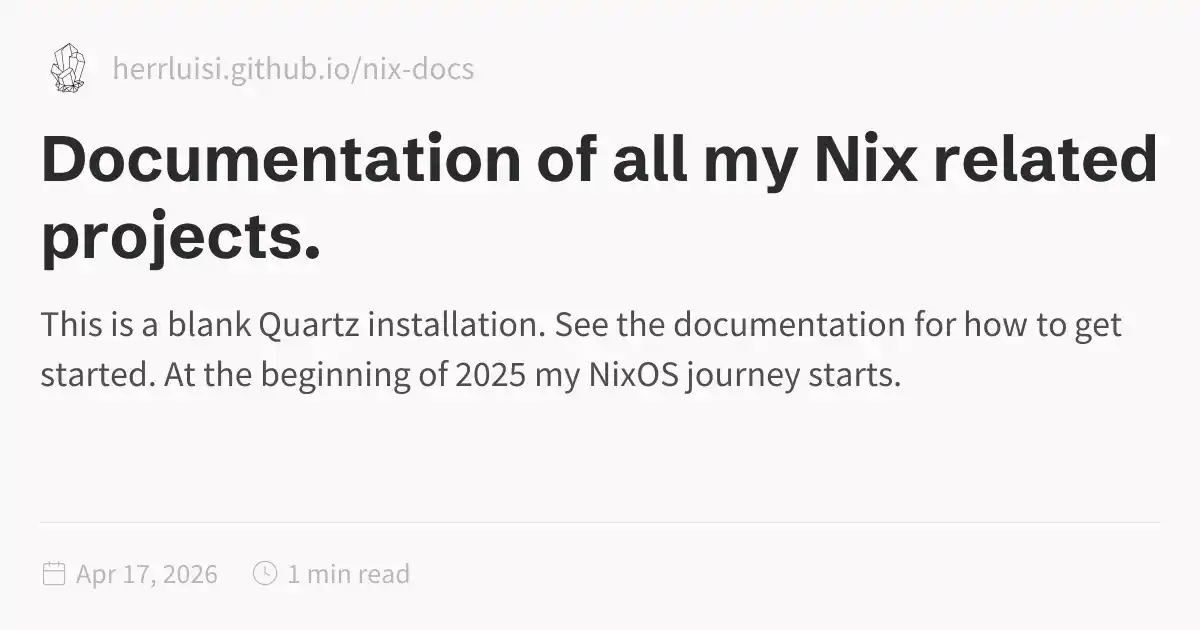
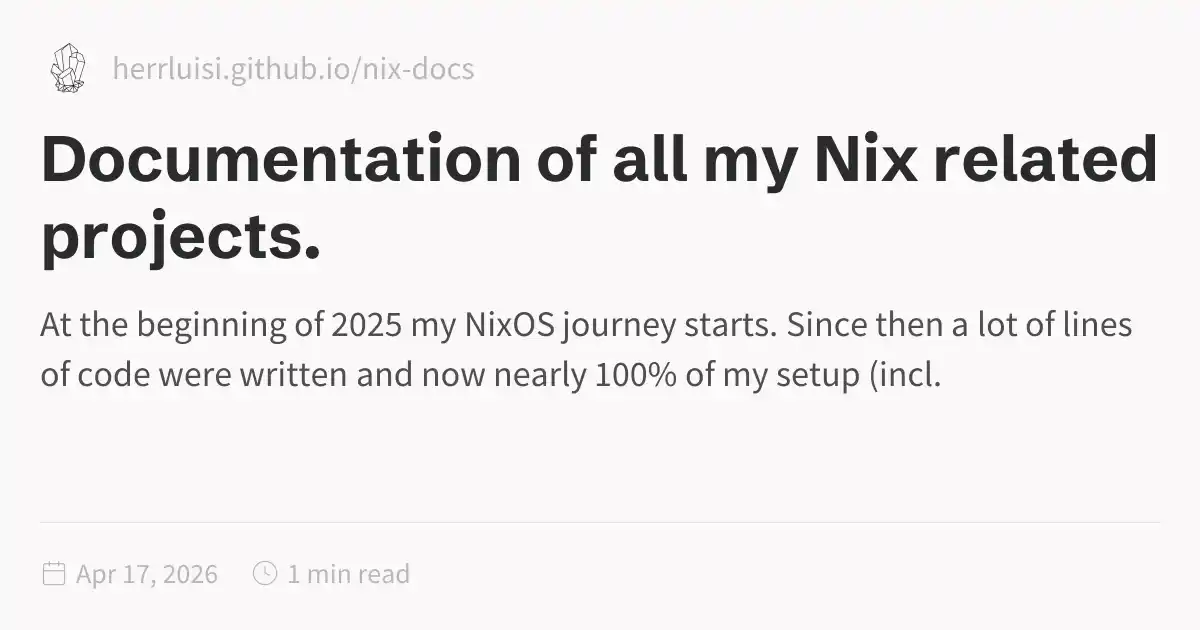
chore: removes Quartz lines from README

Changed region(s): [[0.0308, 0.4825, 0.9558, 0.5429], [0.0308, 0.573, 0.8017, 0.6333]]

diff --git a/public/index.html b/public/index.html
@@ -1,5 +1,5 @@
 <!DOCTYPE html>
-<html lang="en" dir="ltr"><head><title>Documentation of all my Nix related projects.</title><meta charset="utf-8"/><link rel="preconnect" href="https://fonts.googleapis.com"/><link rel="preconnect" href="https://fonts.gstatic.com"/><link rel="stylesheet" href="https://fonts.googleapis.com/css2?family=Schibsted Grotesk:wght@400;700&amp;family=Source Sans Pro:ital,wght@0,400;0,600;1,400;1,600&amp;family=IBM Plex Mono:wght@400;600&amp;display=swap"/><link rel="preconnect" href="https://cdnjs.cloudflare.com" crossorigin="anonymous"/><meta name="viewport" content="width=device-width, initial-scale=1.0"/><meta name="og:site_name" content="Quartz 4"/><meta property="og:title" content="Documentation of all my Nix related projects."/><meta property="og:type" content="website"/><meta name="twitter:card" content="summary_large_image"/><meta name="twitter:title" content="Documentation of all my Nix related projects."/><meta name="twitter:description" content="This is a blank Quartz installation. See the documentation for how to get started. At the beginning of 2025 my NixOS journey starts."/><meta property="og:description" content="This is a blank Quartz installation. See the documentation for how to get started. At the beginning of 2025 my NixOS journey starts."/><meta property="og:image:alt" content="This is a blank Quartz installation. See the documentation for how to get started. At the beginning of 2025 my NixOS journey starts."/><meta property="twitter:domain" content="herrluisi.github.io/nix-docs"/><meta property="og:url" content="https://herrluisi.github.io/nix-docs/index"/><meta property="twitter:url" content="https://herrluisi.github.io/nix-docs/index"/><link rel="icon" href="./static/icon.png"/><meta name="description" content="This is a blank Quartz installation. See the documentation for how to get started. At the beginning of 2025 my NixOS journey starts."/><meta name="generator" content="Quartz"/><link href="./index.css" rel="stylesheet" type="text/css" data-persist="true"/><style>.expand-button {
+<html lang="en" dir="ltr"><head><title>Documentation of all my Nix related projects.</title><meta charset="utf-8"/><link rel="preconnect" href="https://fonts.googleapis.com"/><link rel="preconnect" href="https://fonts.gstatic.com"/><link rel="stylesheet" href="https://fonts.googleapis.com/css2?family=Schibsted Grotesk:wght@400;700&amp;family=Source Sans Pro:ital,wght@0,400;0,600;1,400;1,600&amp;family=IBM Plex Mono:wght@400;600&amp;display=swap"/><link rel="preconnect" href="https://cdnjs.cloudflare.com" crossorigin="anonymous"/><meta name="viewport" content="width=device-width, initial-scale=1.0"/><meta name="og:site_name" content="Quartz 4"/><meta property="og:title" content="Documentation of all my Nix related projects."/><meta property="og:type" content="website"/><meta name="twitter:card" content="summary_large_image"/><meta name="twitter:title" content="Documentation of all my Nix related projects."/><meta name="twitter:description" content="At the beginning of 2025 my NixOS journey starts. Since then a lot of lines of code were written and now nearly 100% of my setup (incl."/><meta property="og:description" content="At the beginning of 2025 my NixOS journey starts. Since then a lot of lines of code were written and now nearly 100% of my setup (incl."/><meta property="og:image:alt" content="At the beginning of 2025 my NixOS journey starts. Since then a lot of lines of code were written and now nearly 100% of my setup (incl."/><meta property="twitter:domain" content="herrluisi.github.io/nix-docs"/><meta property="og:url" content="https://herrluisi.github.io/nix-docs/index"/><meta property="twitter:url" content="https://herrluisi.github.io/nix-docs/index"/><link rel="icon" href="./static/icon.png"/><meta name="description" content="At the beginning of 2025 my NixOS journey starts. Since then a lot of lines of code were written and now nearly 100% of my setup (incl."/><meta name="generator" content="Quartz"/><link href="./index.css" rel="stylesheet" type="text/css" data-persist="true"/><style>.expand-button {
   position: absolute;
   display: flex;
   float: right;
@@ -115,9 +115,7 @@ pre:hover > .expand-button {
   padding: 0 12px;
   font-size: 14px;
 }
[1 lines of base64/hex data omitted]
-See the <a href="https://quartz.jzhao.xyz" class="external">documentation<svg aria-hidden="true" class="external-icon" style="max-width:0.8em;max-height:0.8em;" viewBox="0 0 512 512"><path d="M320 0H288V64h32 82.7L201.4 265.4 178.7 288 224 333.3l22.6-22.6L448 109.3V192v32h64V192 32 0H480 320zM32 32H0V64 480v32H32 456h32V480 352 320H424v32 96H64V96h96 32V32H160 32z"></path></svg></a> for how to get started.</p>
-<p>At the beginning of 2025 my NixOS journey starts. Since then a lot of lines of code were written and now nearly 100% of my setup (incl. my main editor neovim) is declarative.</p>
[1 lines of base64/hex data omitted]
 <p>The goal of this documentation is that I know in a few years (or weeks because of my goldfish brain) what I did here :D</p>
 <p>If you have any questions or suggestions, don’t hesitate to reach out (you find contact options on my GitHub page).</p></article><hr/><div class="page-footer"></div></div><div class="right sidebar"><div class="graph"><h3>Graph View</h3><div class="graph-outer"><div class="graph-container" data-cfg="{&quot;drag&quot;:true,&quot;zoom&quot;:true,&quot;depth&quot;:1,&quot;scale&quot;:1.1,&quot;repelForce&quot;:0.5,&quot;centerForce&quot;:0.3,&quot;linkDistance&quot;:30,&quot;fontSize&quot;:0.6,&quot;opacityScale&quot;:1,&quot;showTags&quot;:true,&quot;removeTags&quot;:[],&quot;focusOnHover&quot;:false,&quot;enableRadial&quot;:false}"></div><button class="global-graph-icon" aria-label="Global Graph"><svg version="1.1" xmlns="http://www.w3.org/2000/svg" xmlns:xlink="http://www.w3.org/1999/xlink" x="0px" y="0px" viewBox="0 0 55 55" fill="currentColor" xml:space="preserve"><path d="M49,0c-3.309,0-6,2.691-6,6c0,1.035,0.263,2.009,0.726,2.86l-9.829,9.829C32.542,17.634,30.846,17,29,17
                 s-3.542,0.634-4.898,1.688l-7.669-7.669C16.785,10.424,17,9.74,17,9c0-2.206-1.794-4-4-4S9,6.794,9,9s1.794,4,4,4

diff --git a/public/tags/index.html b/public/tags/index.html
@@ -115,7 +115,7 @@ pre:hover > .expand-button {
   padding: 0 12px;
   font-size: 14px;
 }
[2 lines of base64/hex data omitted]
 </script><script type="module" data-persist="true">function E(a,e){if(!a)return;function t(o){o.target===this&&(o.preventDefault(),o.stopPropagation(),e())}function n(o){o.key.startsWith("Esc")&&(o.preventDefault(),e())}a?.addEventListener("click",t),window.addCleanup(()=>a?.removeEventListener("click",t)),document.addEventListener("keydown",n),window.addCleanup(()=>document.removeEventListener("keydown",n))}function f(a){for(;a.firstChild;)a.removeChild(a.firstChild)}var m=class{constructor(e,t){this.container=e;this.content=t;this.setupEventListeners(),this.setupNavigationControls(),this.resetTransform()}isDragging=!1;startPan={x:0,y:0};currentPan={x:0,y:0};scale=1;MIN_SCALE=.5;MAX_SCALE=3;cleanups=[];setupEventListeners(){let e=this.onMouseDown.bind(this),t=this.onMouseMove.bind(this),n=this.onMouseUp.bind(this),o=this.onTouchStart.bind(this),r=this.onTouchMove.bind(this),i=this.onTouchEnd.bind(this),s=this.resetTransform.bind(this);this.container.addEventListener("mousedown",e),document.addEventListener("mousemove",t),document.addEventListener("mouseup",n),this.container.addEventListener("touchstart",o,{passive:!1}),document.addEventListener("touchmove",r,{passive:!1}),document.addEventListener("touchend",i),window.addEventListener("resize",s),this.cleanups.push(()=>this.container.removeEventListener("mousedown",e),()=>document.removeEventListener("mousemove",t),()=>document.removeEventListener("mouseup",n),()=>this.container.removeEventListener("touchstart",o),()=>document.removeEventListener("touchmove",r),()=>document.removeEventListener("touchend",i),()=>window.removeEventListener("resize",s))}cleanup(){for(let e of this.cleanups)e()}setupNavigationControls(){let e=document.createElement("div");e.className="mermaid-controls";let t=this.createButton("+",()=>this.zoom(.1)),n=this.createButton("-",()=>this.zoom(-.1)),o=this.createButton("Reset",()=>this.resetTransform());e.appendChild(n),e.appendChild(o),e.appendChild(t),this.container.appendChild(e)}createButton(e,t){let n=document.createElement("button");return n.textContent=e,n.className="mermaid-control-button",n.addEventListener("click",t),window.addCleanup(()=>n.removeEventListener("click",t)),n}onMouseDown(e){e.button===0&&(this.isDragging=!0,this.startPan={x:e.clientX-this.currentPan.x,y:e.clientY-this.currentPan.y},this.container.style.cursor="grabbing")}onMouseMove(e){this.isDragging&&(e.preventDefault(),this.currentPan={x:e.clientX-this.startPan.x,y:e.clientY-this.startPan.y},this.updateTransform())}onMouseUp(){this.isDragging=!1,this.container.style.cursor="grab"}onTouchStart(e){if(e.touches.length!==1)return;this.isDragging=!0;let t=e.touches[0];this.startPan={x:t.clientX-this.currentPan.x,y:t.clientY-this.currentPan.y}}onTouchMove(e){if(!this.isDragging||e.touches.length!==1)return;e.preventDefault();let t=e.touches[0];this.currentPan={x:t.clientX-this.startPan.x,y:t.clientY-this.startPan.y},this.updateTransform()}onTouchEnd(){this.isDragging=!1}zoom(e){let t=Math.min(Math.max(this.scale+e,this.MIN_SCALE),this.MAX_SCALE),n=this.content.getBoundingClientRect(),o=n.width/2,r=n.height/2,i=t-this.scale;this.currentPan.x-=o*i,this.currentPan.y-=r*i,this.scale=t,this.updateTransform()}updateTransform(){this.content.style.transform=`translate(${this.currentPan.x}px, ${this.currentPan.y}px) scale(${this.scale})`}resetTransform(){let t=this.content.querySelector("svg").getBoundingClientRect(),n=t.width/this.scale,o=t.height/this.scale;this.scale=1,this.currentPan={x:(this.container.clientWidth-n)/2,y:(this.container.clientHeight-o)/2},this.updateTransform()}},T=["--secondary","--tertiary","--gray","--light","--lightgray","--highlight","--dark","--darkgray","--codeFont"],y;document.addEventListener("nav",async()=>{let e=document.querySelector(".center").querySelectorAll("code.mermaid");if(e.length===0)return;y||=await import("https://cdnjs.cloudflare.com/ajax/libs/mermaid/11.4.0/mermaid.esm.min.mjs");let t=y.default,n=new WeakMap;for(let r of e)n.set(r,r.innerText);async function o(){for(let s of e){s.removeAttribute("data-processed");let c=n.get(s);c&&(s.innerHTML=c)}let r=T.reduce((s,c)=>(s[c]=window.getComputedStyle(document.documentElement).getPropertyValue(c),s),{}),i=document.documentElement.getAttribute("saved-theme")==="dark";t.initialize({startOnLoad:!1,securityLevel:"loose",theme:i?"dark":"base",themeVariables:{fontFamily:r["--codeFont"],primaryColor:r["--light"],primaryTextColor:r["--darkgray"],primaryBorderColor:r["--tertiary"],lineColor:r["--darkgray"],secondaryColor:r["--secondary"],tertiaryColor:r["--tertiary"],clusterBkg:r["--light"],edgeLabelBackground:r["--highlight"]}}),await t.run({nodes:e})}await o(),document.addEventListener("themechange",o),window.addCleanup(()=>document.removeEventListener("themechange",o));for(let r=0;r<e.length;r++){let v=function(){let g=l.querySelector("#mermaid-space"),h=l.querySelector(".mermaid-content");if(!h)return;f(h);let w=i.querySelector("svg").cloneNode(!0);h.appendChild(w),l.classList.add("active"),g.style.cursor="grab",u=new m(g,h)},M=function(){l.classList.remove("active"),u?.cleanup(),u=null},i=e[r],s=i.parentElement,c=s.querySelector(".clipboard-button"),d=s.querySelector(".expand-button"),p=window.getComputedStyle(c),L=c.offsetWidth+parseFloat(p.marginLeft||"0")+parseFloat(p.marginRight||"0");d.style.right=`calc(${L}px + 0.3rem)`,s.prepend(d);let l=s.querySelector("#mermaid-container");if(!l)return;let u=null;d.addEventListener("click",v),E(l,M),window.addCleanup(()=>{u?.cleanup(),d.removeEventListener("click",v)})}});
 </script><script src="https://cdn.jsdelivr.net/npm/katex@0.16.11/dist/contrib/copy-tex.min.js" type="application/javascript" data-persist="true"></script><script type="application/javascript" data-persist="true">
         const socket = new WebSocket('ws://localhost:3001')

diff --git a/content/index.md b/content/index.md
@@ -2,9 +2,6 @@
 title: Documentation of all my Nix related projects.
 ---
 
-This is a blank Quartz installation.
-See the [documentation](https://quartz.jzhao.xyz) for how to get started.
-
 At the beginning of 2025 my NixOS journey starts. Since then a lot of lines of code were written and now nearly 100% of my setup (incl. my main editor neovim) is declarative.
 
 The goal of this documentation is that I know in a few years (or weeks because of my goldfish brain) what I did here :D
